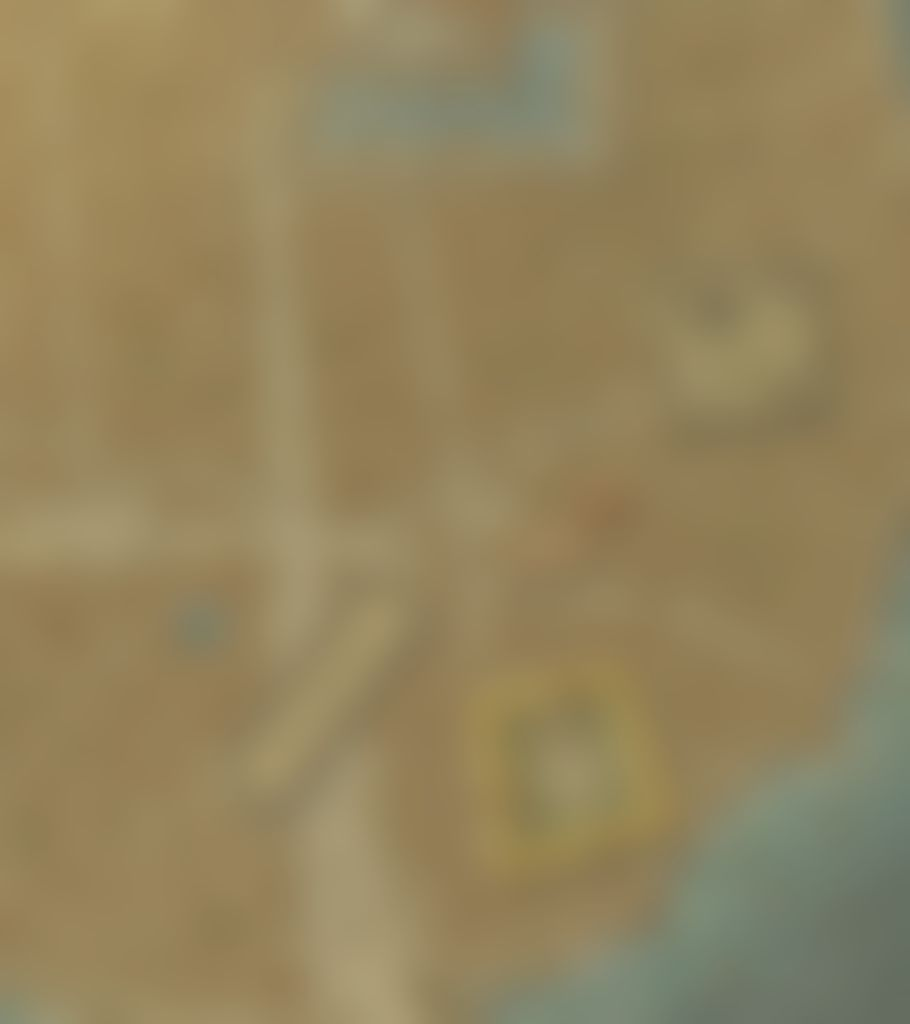
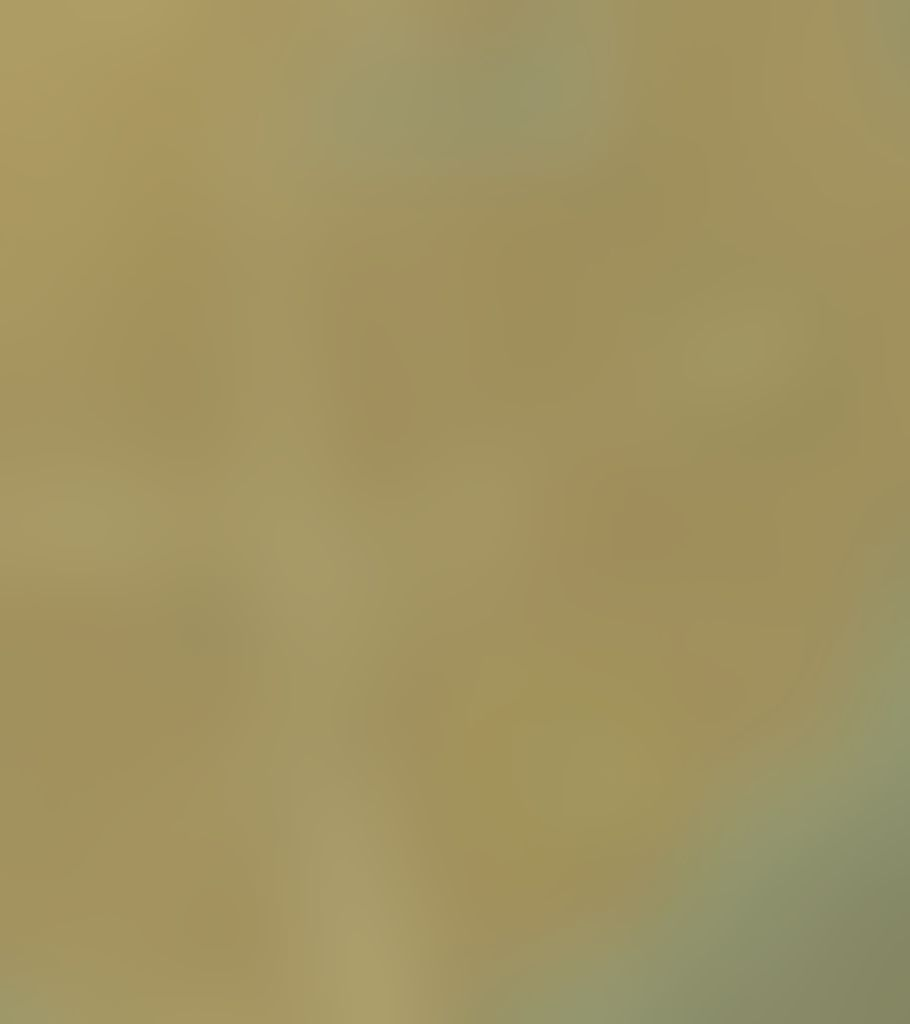
living v3: fill viewport, softer undeveloped land, close guide when a card opens

diff --git a/docs/living/index.html b/docs/living/index.html
@@ -145,14 +145,14 @@ function polyPath(ctx,p,s){let cx=0,cy=0;const n=p.length/2;for(let i=0;i<n;i++)
 function buildBase(Y){
   bctx.globalAlpha=1;bctx.drawImage(img,0,0,W,H);
   bctx.save();bctx.beginPath();
-  for(const h of houses) if(h.built>Y) polyPath(bctx,h.p,1.9);
+  for(const h of houses) if(h.built>Y) polyPath(bctx,h.p,2.3);
   for(const k in late) if(late[k].built>Y){const q=late[k].p.flat();polyPath(bctx,q,1.12)}
   bctx.clip();bctx.drawImage(bare,0,0,W,H);bctx.restore();
   // houses that stood then but were cleared later (for the Great Church, the granary, the Anastasia)
   for(const h of houses) if(h.built<=Y&&h.destroyed>Y&&h.destroyed<=50){
     bctx.beginPath();polyPath(bctx,h.p,1.5);bctx.fillStyle='#b65f3e';bctx.fill();bctx.strokeStyle='rgba(60,30,20,.7)';bctx.lineWidth=1.2;bctx.stroke();}
   // newest houses (last 3 years): fresh plaster, a pale ring
-  bctx.lineWidth=1.4;bctx.strokeStyle='rgba(255,240,200,.55)';
+  bctx.lineWidth=1;bctx.strokeStyle='rgba(255,240,200,.28)';
   for(const h of houses) if(h.built<=Y&&h.built>Y-3&&h.built>1){bctx.beginPath();polyPath(bctx,h.p,1.7);bctx.stroke()}
   baseYear=Y;
 }
@@ -248,7 +248,7 @@ fit();
 function s2w(sx,sy){return[(sx-VW/2)/cam.z+cam.x,(sy-VH/2)/cam.z+cam.y]}
 function w2s(x,y){return[(x-cam.x)*cam.z+VW/2,(y-cam.y)*cam.z+VH/2]}
 function flyTo(x,y,z,dur=1600){camT={x0:cam.x,y0:cam.y,z0:cam.z,x,y,z:z||cam.z,t0:performance.now(),dur}}
-function clampCam(){cam.z=clamp(cam.z,minZ(),3);cam.x=clamp(cam.x,0,W);cam.y=clamp(cam.y,0,H)}
+function clampCam(){cam.z=clamp(cam.z,minZ(),3);const hx=VW/2/cam.z,hy=VH/2/cam.z;cam.x=W>2*hx?clamp(cam.x,hx,W-hx):W/2;cam.y=H>2*hy?clamp(cam.y,hy,H-hy):H/2}
 
 /* ---------- input ---------- */
 const ptrs=new Map();let dragMoved=0,pinch0=null;
@@ -277,9 +277,9 @@ function tap(sx,sy){
   if(h)openHouse(h.id);else{showCard(`<h2>空地</h2><div class="meta">建城 ${YEAR} 年，这里还没有房子。</div><div class="now">把年代往后拨，看它什么时候长出来。</div>`);sel=null;threads=[]}
 }
 function houseById(id){return houses.find(h=>h.id===id)}
-function openHouse(id){const h=houseById(id);if(!h)return;sel={kind:'house',hh:household(h)};renderCard();blip(660,.08)}
+function openHouse(id){hush();const h=houseById(id);if(!h)return;sel={kind:'house',hh:household(h)};renderCard();blip(660,.08)}
 function openNamed(P){sel={kind:'named',P};renderCard();blip(520,.08)}
-function openLM(l){sel={kind:'lm',l};renderCard();blip(440,.08)}
+function openLM(l){hush();sel={kind:'lm',l};renderCard();blip(440,.08)}
 function closeCard(){$('card').style.display='none';sel=null;threads=[]}
 $('cardx').onclick=closeCard;
 function showCard(html){$('cardbody').innerHTML=html;$('card').style.display='block'}
@@ -413,7 +413,7 @@ function frame(now){const dt=Math.min(.1,(now-last)/1000);last=now;
     if(hr===13)race.score='蓝 0 · 绿 0 · 红 0 · 白 0';}
   if(race.on&&Math.random()<dt*.05){const s=race.score.match(/\d+/g).map(Number);s[Math.floor(Math.random()*4)]++;race.score=`蓝 ${s[0]} · 绿 ${s[1]} · 红 ${s[2]} · 白 ${s[3]}`}
   $('clock').textContent=HOURS[hr]+' '+(hr%12||12)+' 时'+(race.on?' · 赛马中':'');
-  if(camT){const k=clamp((now-camT.t0)/camT.dur,0,1),e=k<.5?2*k*k:1-Math.pow(-2*k+2,2)/2;cam.x=camT.x0+(camT.x-camT.x0)*e;cam.y=camT.y0+(camT.y-camT.y0)*e;cam.z=camT.z0+(camT.z-camT.z0)*e;if(k>=1)camT=null}
+  if(camT){const k=clamp((now-camT.t0)/camT.dur,0,1),e=k<.5?2*k*k:1-Math.pow(-2*k+2,2)/2;cam.x=camT.x0+(camT.x-camT.x0)*e;cam.y=camT.y0+(camT.y-camT.y0)*e;cam.z=camT.z0+(camT.z-camT.z0)*e;if(k>=1)camT=null;clampCam()}
   if(follow){cam.x+=(follow.x-cam.x)*Math.min(1,dt*1.6);cam.y+=(follow.y-cam.y)*Math.min(1,dt*1.6);cam.z+=(follow.z-cam.z)*Math.min(1,dt*1.2);daphTarget=[follow.x+18,follow.y+10]}
   daphPos[0]+=(daphTarget[0]-daphPos[0])*Math.min(1,dt*1.3);daphPos[1]+=(daphTarget[1]-daphPos[1])*Math.min(1,dt*1.3);
   clampCam();
